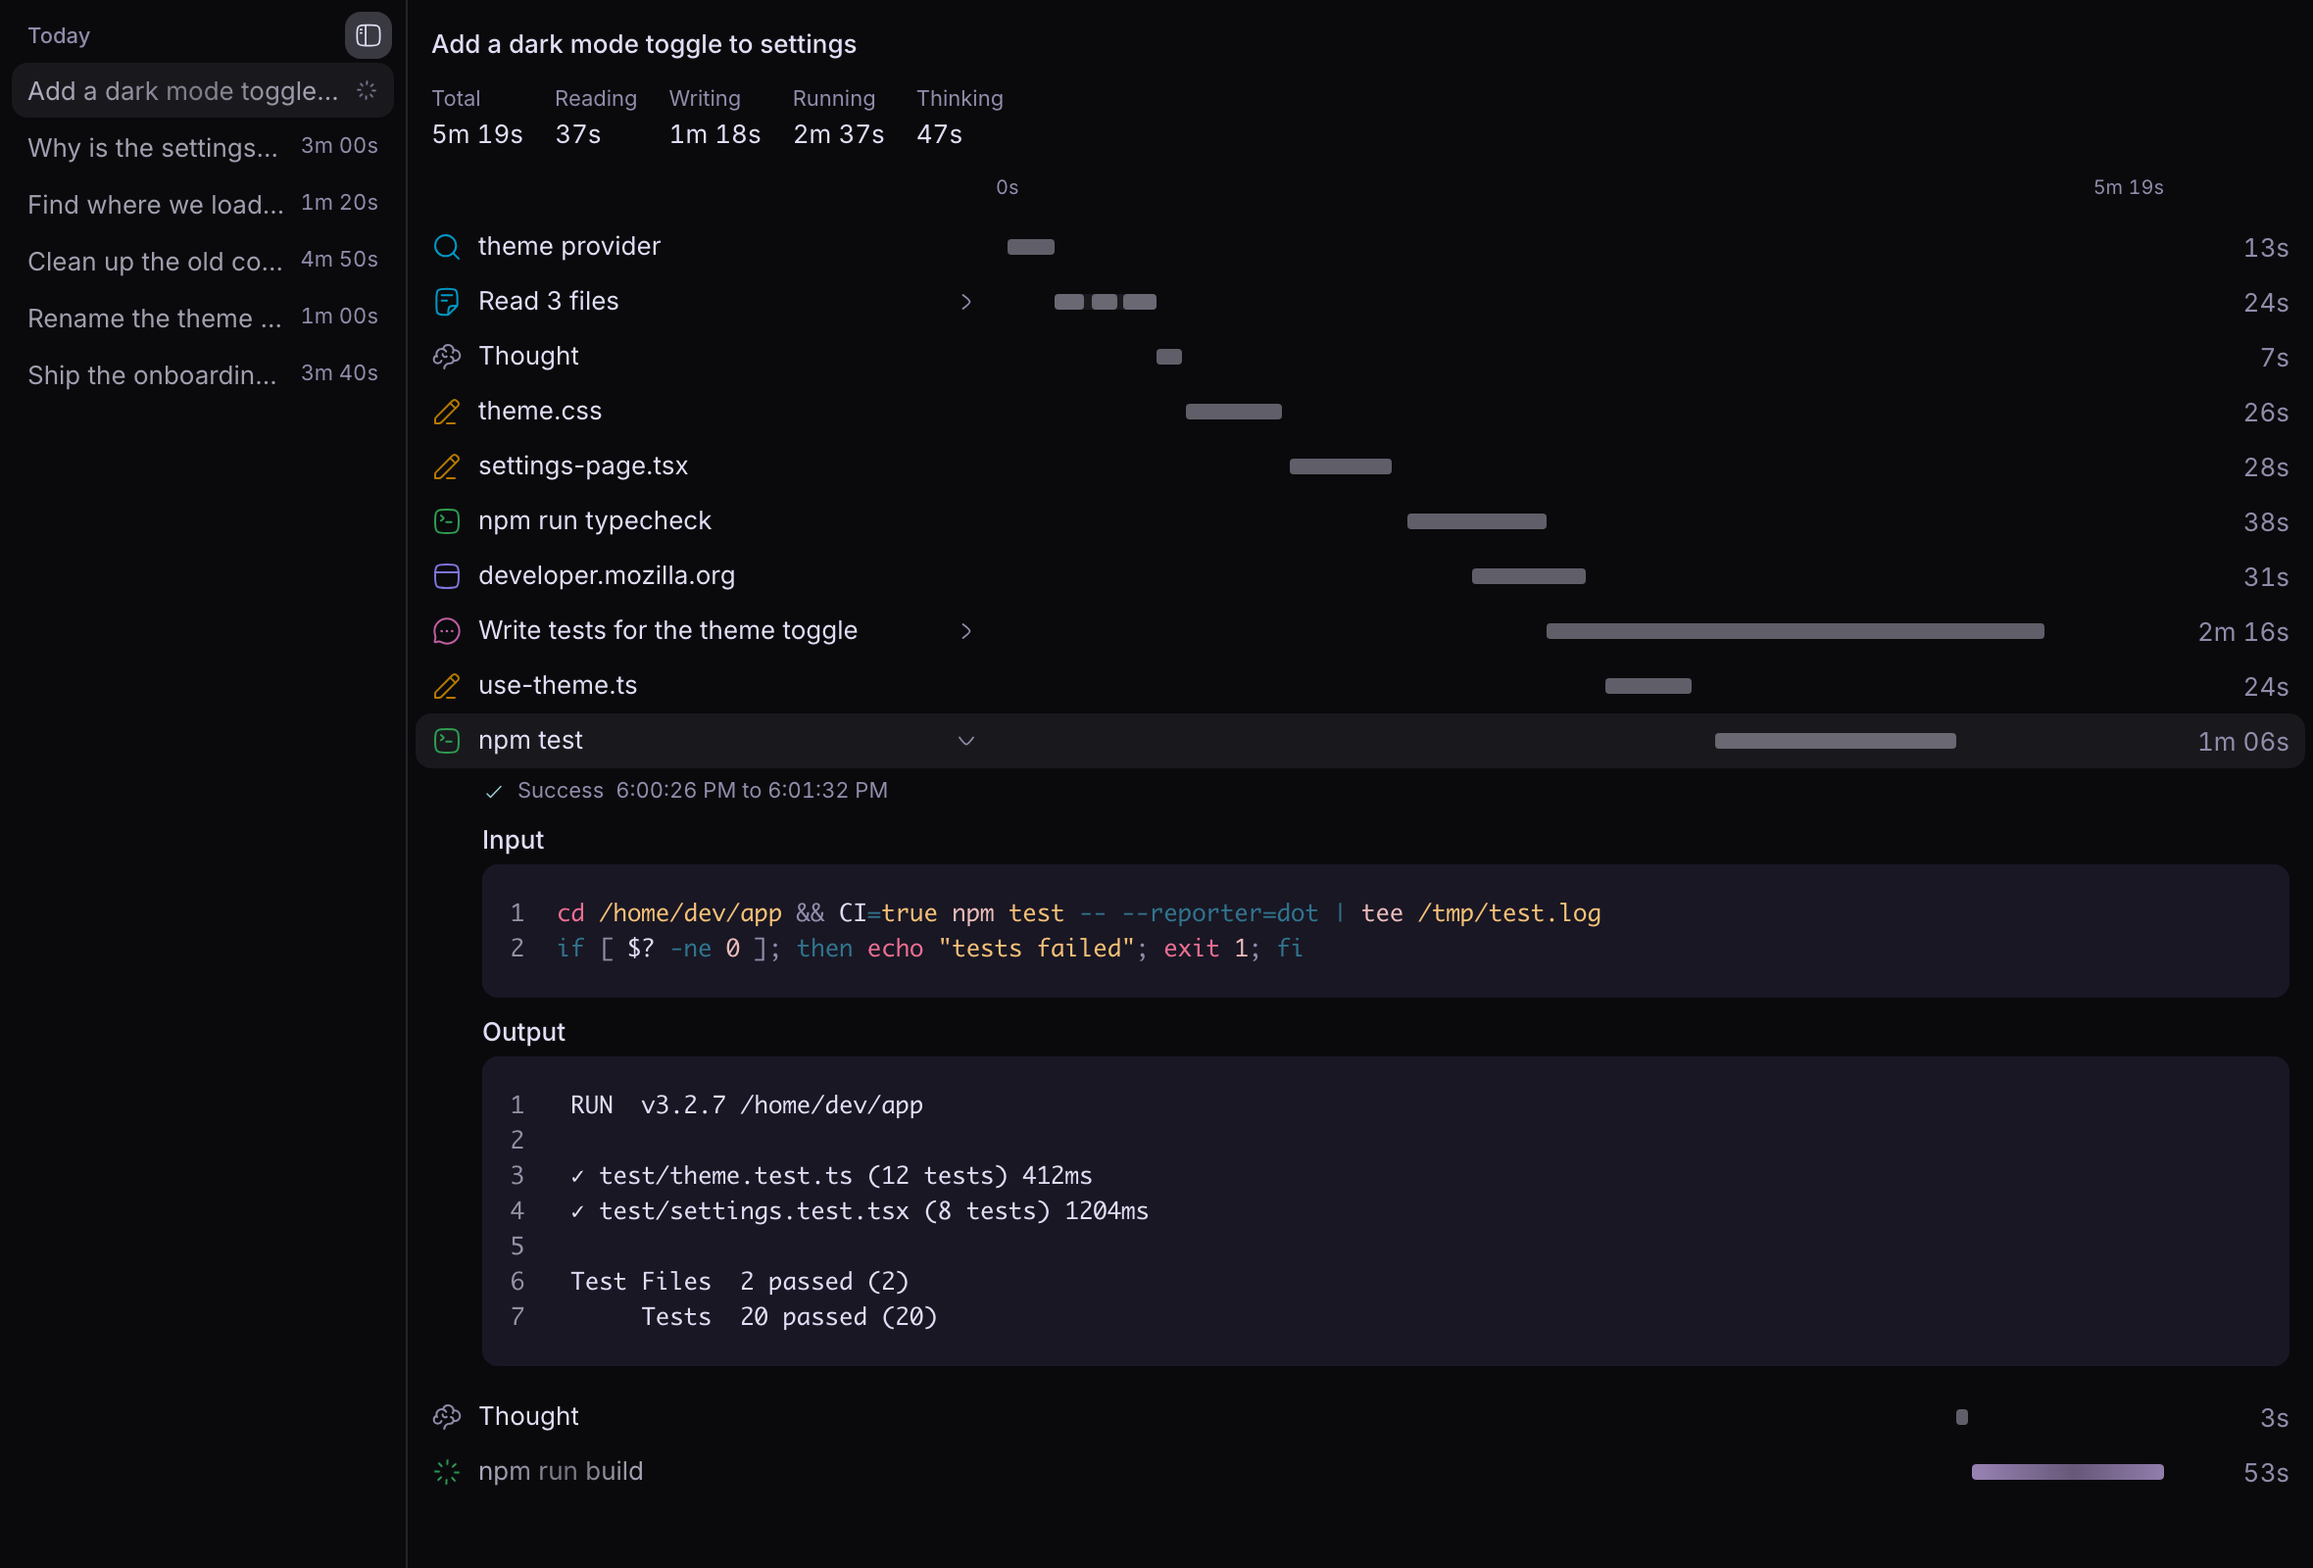
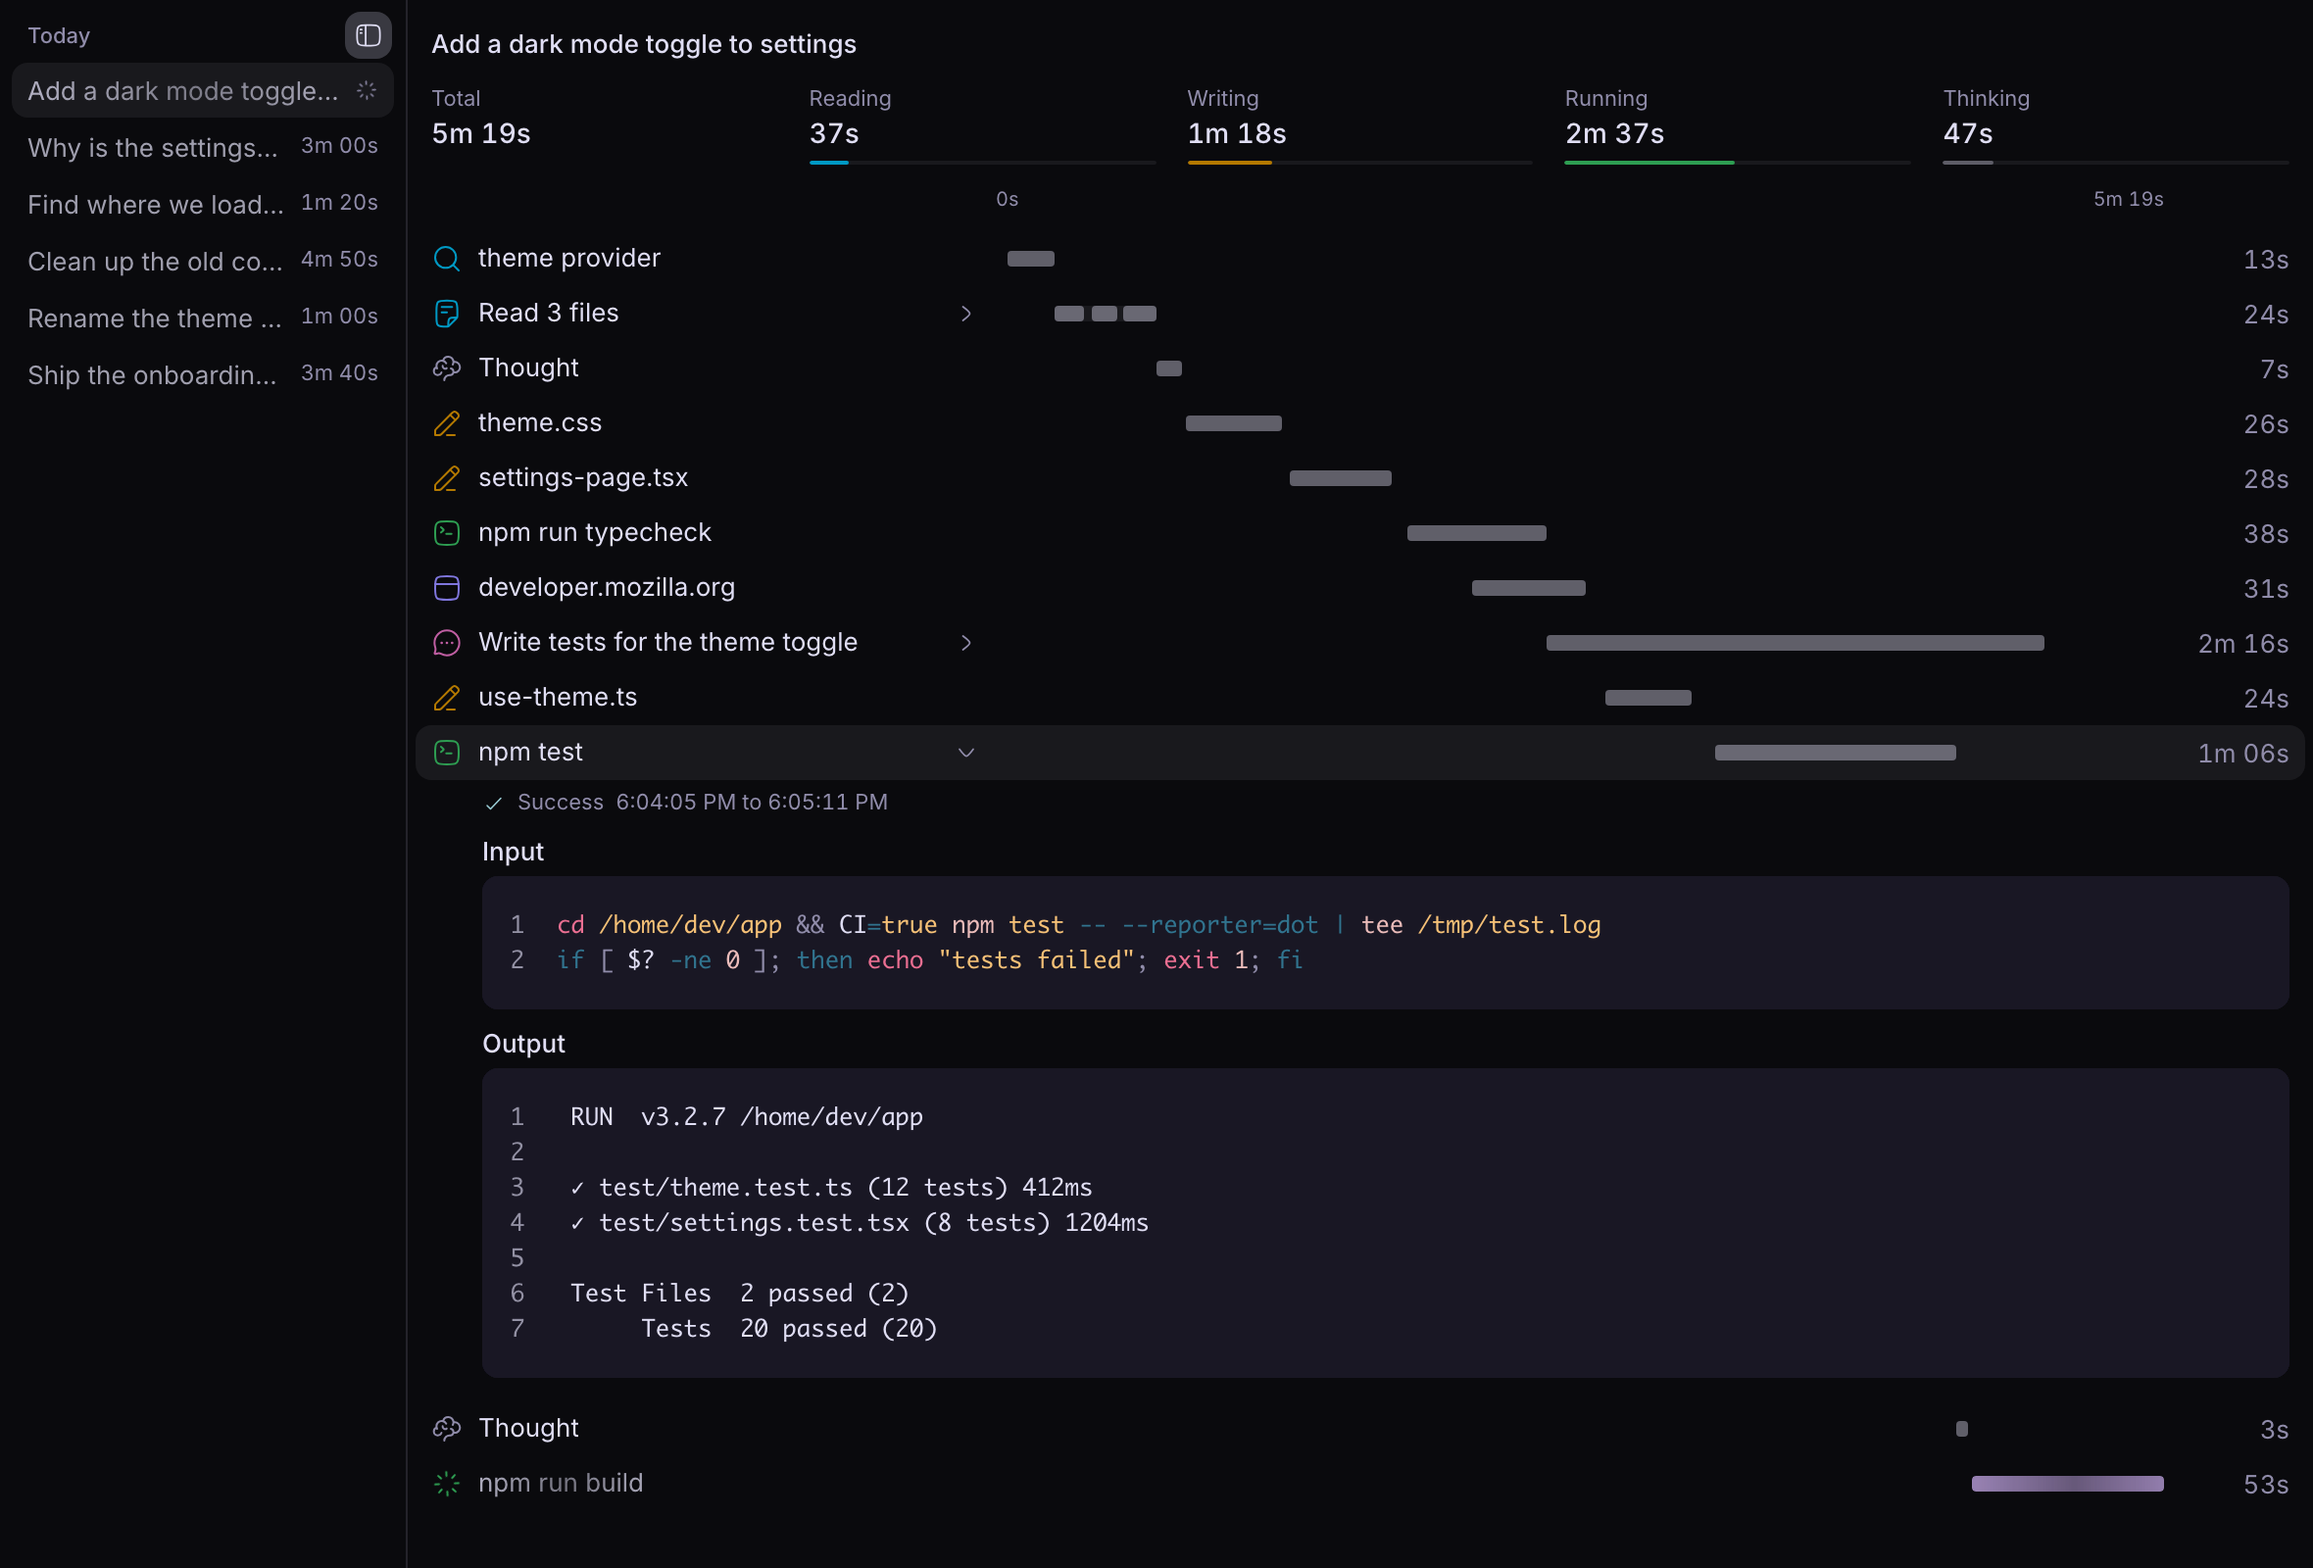
feat: open stats row with share lines, keep the newest 50 messages, and refresh the showcase

diff --git a/components/steps-tab.tsx b/components/steps-tab.tsx
@@ -51,25 +51,41 @@ const parseOpen = (raw: string): boolean | undefined => {
 };
 const SIDEBAR_WIDTH = { min: 120, max: () => 420, initial: () => 208 };
 
-const CHIP = `flex cursor-pointer flex-col items-start rounded-md px-1.5 py-0.5 text-left hover:bg-accent/60 aria-pressed:bg-accent ${FOCUS_RING}`;
-
 const TEXT_BUTTON = `cursor-pointer rounded-md px-2 py-1 text-2xs text-muted-foreground hover:bg-accent/60 hover:text-foreground ${FOCUS_RING}`;
 
 /** Always shown, in this order; any other kind follows once it has time. */
 const MAIN_KINDS: readonly StepKind[] = ["read", "edit", "run", "think"];
 
-function Stat({ label, value }: { label: string; value: string }) {
+const STRIP = "-mx-1.5 flex gap-1";
+const CELL = "relative flex min-w-0 flex-1 basis-0 flex-col rounded-md px-1.5 pt-0.5 pb-2 text-left";
+
+function CellText({
+  label,
+  value,
+  quiet = false,
+}: {
+  label: string;
+  value: string;
+  quiet?: boolean;
+}) {
   return (
     <>
-      <span className="text-[11px] leading-4 text-muted-foreground">{label}</span>
-      <span className="text-[13px] leading-5 tabular-nums text-foreground">
+      <span className="truncate text-[11px] leading-4 text-muted-foreground">
+        {label}
+      </span>
+      <span
+        className={cn(
+          "truncate text-sm leading-5 font-medium tabular-nums",
+          quiet ? "text-muted-foreground/60" : "text-foreground",
+        )}
+      >
         {value}
       </span>
     </>
   );
 }
 
-/** The whole time, then where it went; a kind lists only its own steps when picked. */
+/** The whole time, then each kind with a thin line for its share of it. */
 function Stats({
   total,
   totals,
@@ -85,32 +101,51 @@ function Stats({
     (kind) => !MAIN_KINDS.includes(kind) && totals[kind] > 0,
   );
   return (
-    <div className="flex flex-wrap items-start gap-x-1 gap-y-1">
-      <div className="flex flex-col px-1.5 py-0.5">
-        <Stat label="Total" value={formatElapsed(total)} />
+    <div role="group" aria-label="Show one kind" className={STRIP}>
+      <div className={CELL}>
+        <CellText label="Total" value={formatElapsed(total)} />
       </div>
-      <div
-        role="group"
-        aria-label="Show one kind"
-        className="flex flex-wrap gap-x-1 gap-y-1"
-      >
-        {[...MAIN_KINDS, ...others].map((kind) => (
-          <button
-            key={kind}
-            type="button"
-            aria-pressed={filter === kind}
-            title={
-              kind === "think"
-                ? "The model thinking or writing, between and during its steps"
-                : undefined
-            }
-            onClick={() => onFilter(filter === kind ? null : kind)}
-            className={CHIP}
+      {[...MAIN_KINDS, ...others].map((kind) => (
+        <button
+          key={kind}
+          type="button"
+          aria-pressed={filter === kind}
+          title={
+            kind === "think"
+              ? "The model thinking or writing, between and during its steps"
+              : undefined
+          }
+          onClick={() => onFilter(filter === kind ? null : kind)}
+          className={cn(
+            CELL,
+            "cursor-pointer hover:bg-accent/60 aria-pressed:bg-accent",
+            FOCUS_RING,
+          )}
+        >
+          <CellText
+            label={STEP_KINDS[kind].label}
+            value={formatElapsed(totals[kind])}
+            quiet={totals[kind] === 0}
+          />
+          <span
+            aria-hidden
+            className="absolute inset-x-1.5 bottom-0.5 h-0.5 overflow-hidden rounded-full bg-foreground/[0.07]"
           >
-            <Stat label={STEP_KINDS[kind].label} value={formatElapsed(totals[kind])} />
-          </button>
-        ))}
-      </div>
+            <span
+              className={cn(
+                "block h-full rounded-full",
+                kind === "think" && "bg-foreground/35",
+              )}
+              style={{
+                width: `${total > 0 ? Math.min((totals[kind] / total) * 100, 100) : 0}%`,
+                ...(kind === "think"
+                  ? {}
+                  : { backgroundColor: STEP_KINDS[kind].color }),
+              }}
+            />
+          </span>
+        </button>
+      ))}
     </div>
   );
 }
@@ -180,14 +215,12 @@ function TurnBody({
         <p className="m-0 truncate text-[13px] leading-5 font-medium text-foreground">
           {messageText(turn.prompt)}
         </p>
-        <div className="-mx-1.5">
-          <Stats
-            total={Math.max(ownEndedAt - turn.startedAt, 0)}
-            totals={turn.totals}
-            filter={filter}
-            onFilter={setFilter}
-          />
-        </div>
+        <Stats
+          total={Math.max(ownEndedAt - turn.startedAt, 0)}
+          totals={turn.totals}
+          filter={filter}
+          onFilter={setFilter}
+        />
         {shown.length + shownThreads.length > 0 ? (
           <TimeAxis wall={Math.max(turnEndedAt - turn.startedAt, 0)} />
         ) : null}
@@ -199,7 +232,9 @@ function TurnBody({
           <Note>
             {filter === "think"
               ? "This is the model thinking and writing between its steps."
-              : "No steps of this kind."}
+              : filter === null
+                ? "No steps yet."
+                : "No steps of this kind."}
           </Note>
         )}
       </div>
@@ -236,6 +271,8 @@ function AllThreads({
   const lengthOf = (thread: ChildThread) =>
     Math.max((thread.endedAt ?? now) - thread.startedAt, 0);
   const longest = Math.max(1, ...threads.map(lengthOf));
+  const count = (status: ChildThread["status"]) =>
+    threads.filter((thread) => thread.status === status).length;
   const newestFirst = [...threads].sort((a, b) => b.startedAt - a.startedAt);
   return (
     <div className="flex flex-col pb-3">
@@ -243,6 +280,20 @@ function AllThreads({
         <p className="m-0 truncate text-[13px] leading-5 font-medium text-foreground">
           All threads
         </p>
+        <div className={STRIP}>
+          {(
+            [
+              ["Threads", threads.length],
+              ["Running", count("running")],
+              ["Done", count("done")],
+              ["Failed", count("error")],
+            ] as const
+          ).map(([label, value]) => (
+            <div key={label} className={CELL}>
+              <CellText label={label} value={String(value)} quiet={value === 0} />
+            </div>
+          ))}
+        </div>
         <TimeAxis wall={longest} />
       </div>
       {newestFirst.map((thread) => (

diff --git a/test/server.test.ts b/test/server.test.ts
@@ -144,12 +144,31 @@ describe("thread steps", () => {
     expect(steps).toMatchObject({ hasOlder: true, turnsRead: 9 });
   });
 
-  it("refuses more than 200 turns", async () => {
+  it("keeps only the newest 50 messages of a chat", async () => {
+    const many = Array.from({ length: 60 }, (_, index) => ({
+      ...rows[0],
+      id: `prompt-${index}`,
+      turnId: `turn-${index}`,
+      startedAt: 1_000 + index,
+      createdAt: 1_000 + index,
+    }));
+    const { harness } = await load({ timeline: { status: "idle", rows: many } });
+    const steps = (await harness.callRpc("thread_steps", {
+      threadId: "thr_a",
+      turns: 50,
+      turnId: null,
+    })) as { turns: { startedAt: number }[] };
+    expect(steps.turns).toHaveLength(50);
+    expect(steps.turns[0]!.startedAt).toBe(1_059);
+    expect(steps.turns.at(-1)!.startedAt).toBe(1_010);
+  });
+
+  it("refuses more than 50 turns", async () => {
     const { harness } = await load();
     await expect(
       harness.callRpc("thread_steps", {
         threadId: "thr_a",
-        turns: 201,
+        turns: 51,
         turnId: null,
       }),
     ).rejects.toThrow();

diff --git a/server.ts b/server.ts
@@ -1,6 +1,6 @@
 import type { BbPluginApi } from "@get-bb/plugin-sdk";
 
-import { rpcContract, stepsTag } from "./lib/rpc";
+import { MAX_TURNS, rpcContract, stepsTag } from "./lib/rpc";
 import {
   buildThreadSteps,
   focusTurn,
@@ -136,7 +136,12 @@ export default async function plugin(bb: BbPluginApi) {
         now: Date.now(),
         hasOlder: timeline.hasOlder,
       });
-      return focusTurn(steps, turnId, turns, descendants);
+      return focusTurn(
+        { ...steps, turns: steps.turns.slice(0, MAX_TURNS) },
+        turnId,
+        turns,
+        descendants,
+      );
     },
 
     thread_run: async ({ threadId }) => {

diff --git a/test/steps-tab.test.tsx b/test/steps-tab.test.tsx
@@ -303,6 +303,18 @@ describe("the steps tab", () => {
     );
   });
 
+  it("says a new message has no steps yet, not that a kind is empty", async () => {
+    renderSteps(() =>
+      buildThreadSteps([prompt("t1", 0, "hi")], {
+        threadId: "thr",
+        running: true,
+        now: at(2),
+        hasOlder: false,
+      }),
+    );
+    expect(await screen.findByText("No steps yet.")).toBeTruthy();
+  });
+
   it("says when there are no steps yet", async () => {
     renderSteps(() => ({ ...ready(), turns: [] }));
     expect(

diff --git a/lib/rpc.ts b/lib/rpc.ts
@@ -3,8 +3,8 @@ import { z } from "zod";
 
 import { focusedStepsSchema, stepSchema } from "./steps";
 
-/** The most of a thread's messages the list reads. */
-export const MAX_TURNS = 200;
+/** The most of a thread's messages the list keeps; older ones drop off. */
+export const MAX_TURNS = 50;
 
 /** One thread's steps, invalidated when that thread changes. */
 export const stepsTag = (threadId: string): string => `steps:${threadId}`;

diff --git a/README.md b/README.md
@@ -36,6 +36,8 @@ Then open a thread, press **⌘J**, click **+**, and choose **Steps**. Requires 
 
 Click **Reading**, **Writing** or any other total to list only those steps. Drag the sidebar's edge to resize it, or use its panel icon to collapse it.
 
+Steps reads each chat's history from BB and stores no copy of it. The list keeps the newest 50 messages per chat, and older ones drop off. Your chat history in BB isn't touched.
+
 BB doesn't keep the output of file reads or web fetches, so those steps show their input only.
 
 ## Dev
